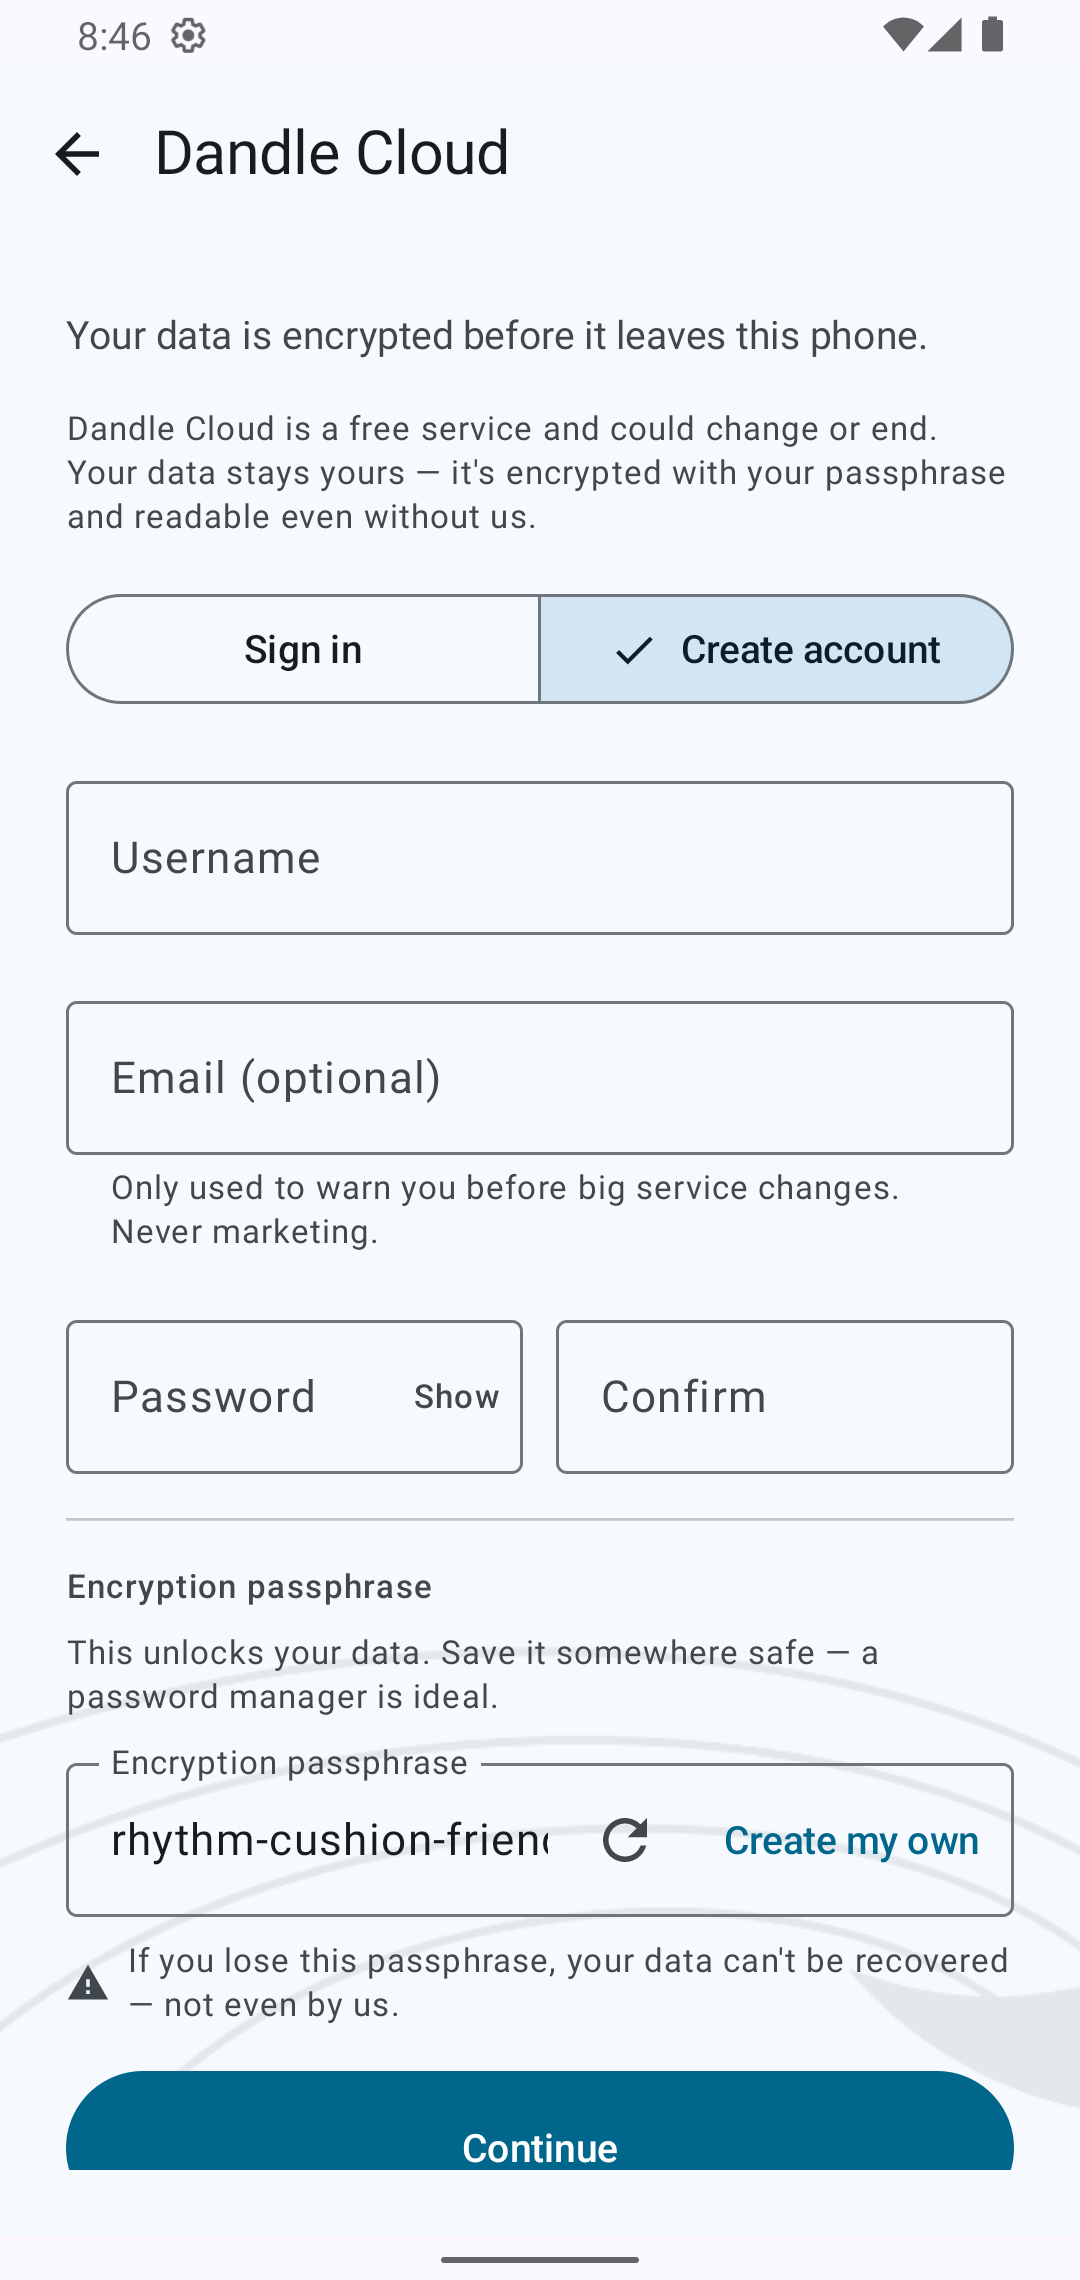
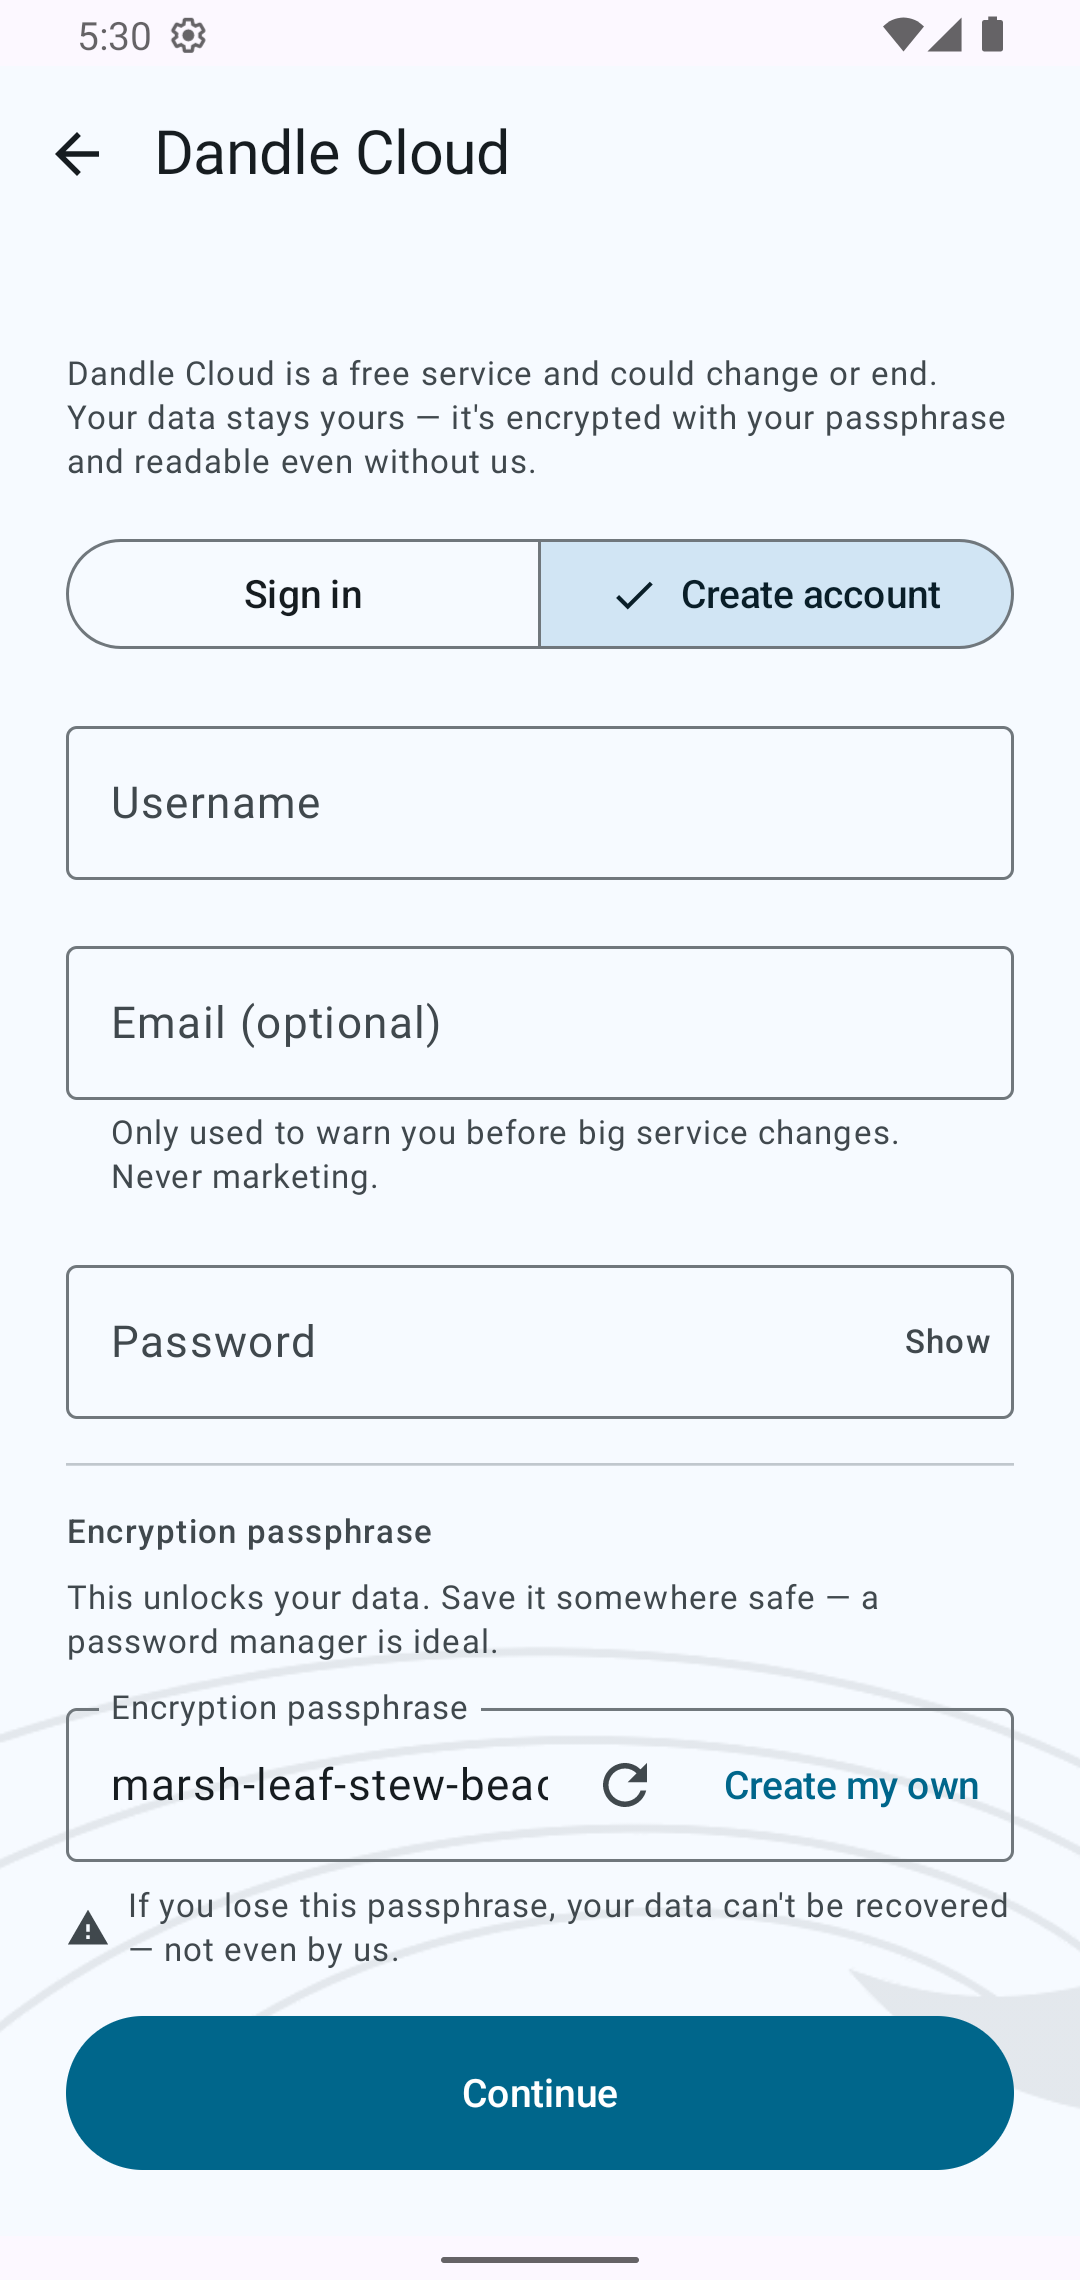
fix(cloud): drop the adjacent confirm-password field (brief 06 amendment)
Research verdict (owner + NIST 800-63B + web.dev/NN/g/2025 UX guides): the
adjacent confirm pair is obsolete — the Show/Hide toggle is the verification,
and managers autofill both fields identically so the pair validates nothing.
Single password field ships; the next-step paste-verify is reserved for the
encryption passphrase, where separate-step confirmation IS the standard
(wallet seed-phrase practice). Screenshots regenerated; 320 unit tests green.

diff --git a/app/app/src/main/java/app/dandle/ui/login/LoginScreen.kt b/app/app/src/main/java/app/dandle/ui/login/LoginScreen.kt
@@ -773,48 +773,24 @@ private fun CloudCreateFields(state: LoginUiState, viewModel: LoginViewModel) {
             .fillMaxWidth()
             .testTag(TestTags.LOGIN_CONTACT_EMAIL),
     )
-    Row(
-        horizontalArrangement = Arrangement.spacedBy(12.dp),
-        modifier = Modifier.fillMaxWidth(),
-    ) {
-        OutlinedTextField(
-            value = state.cloudPassword,
-            onValueChange = viewModel::onCloudPasswordChange,
-            label = { Text("Password") },
-            singleLine = true,
-            visualTransformation =
-                if (state.passwordVisible) VisualTransformation.None
-                else PasswordVisualTransformation(),
-            trailingIcon = {
-                IconButton(onClick = viewModel::onPasswordVisibilityToggle) {
-                    Text(if (state.passwordVisible) "Hide" else "Show", style = MaterialTheme.typography.labelMedium)
-                }
-            },
-            keyboardOptions = KeyboardOptions(keyboardType = KeyboardType.Password, imeAction = ImeAction.Next),
-            modifier = Modifier
-                .weight(1f)
-                .testTag(TestTags.LOGIN_CLOUD_PASSWORD),
-        )
-        OutlinedTextField(
-            value = state.cloudPasswordConfirm,
-            onValueChange = viewModel::onCloudPasswordConfirmChange,
-            // "Confirm", not "Confirm password": the label wraps in the half-width field and
-            // inflates the box taller than its neighbor (owner-reported misalignment).
-            label = { Text("Confirm") },
-            singleLine = true,
-            isError = state.cloudPasswordMismatch,
-            supportingText = if (state.cloudPasswordMismatch) {
-                { Text("Passwords don't match.") }
-            } else {
-                null
-            },
-            visualTransformation = PasswordVisualTransformation(),
-            keyboardOptions = KeyboardOptions(keyboardType = KeyboardType.Password, imeAction = ImeAction.Next),
-            modifier = Modifier
-                .weight(1f)
-                .testTag(TestTags.LOGIN_CLOUD_PASSWORD_CONFIRM),
-        )
-    }
+    OutlinedTextField(
+        value = state.cloudPassword,
+        onValueChange = viewModel::onCloudPasswordChange,
+        label = { Text("Password") },
+        singleLine = true,
+        visualTransformation =
+            if (state.passwordVisible) VisualTransformation.None
+            else PasswordVisualTransformation(),
+        trailingIcon = {
+            IconButton(onClick = viewModel::onPasswordVisibilityToggle) {
+                Text(if (state.passwordVisible) "Hide" else "Show", style = MaterialTheme.typography.labelMedium)
+            }
+        },
+        keyboardOptions = KeyboardOptions(keyboardType = KeyboardType.Password, imeAction = ImeAction.Next),
+        modifier = Modifier
+            .fillMaxWidth()
+            .testTag(TestTags.LOGIN_CLOUD_PASSWORD),
+    )
     // Visually separated section (brief 06 §3): the key that unlocks the data is a different
     // thing from the account password, so it gets its own labeled block.
     HorizontalDivider()
@@ -854,8 +830,7 @@ private fun CloudCreateFields(state: LoginUiState, viewModel: LoginViewModel) {
                 disabledReason = when {
                     state.cloudPassphraseVerify != state.cloudCreatePassphrase -> "Paste the passphrase to confirm"
                     !state.contactEmailValid -> "Fix the email address to continue"
-                    state.cloudPasswordConfirm != state.cloudPassword -> "Make the passwords match"
-                    else -> "Enter a username and password"
+                                        else -> "Enter a username and password"
                 },
                 onClick = viewModel::submit,
             )

diff --git a/app/app/src/main/java/app/dandle/ui/login/LoginViewModel.kt b/app/app/src/main/java/app/dandle/ui/login/LoginViewModel.kt
@@ -82,6 +82,10 @@ data class LoginUiState(
     // -- Cloud sub-flow (brief 04 §B, brief 05 §5, brief 06) --
     val cloudTab: CloudTab = CloudTab.SIGN_IN,
     val cloudUsername: String = "",
+    // Single password field, no adjacent confirm: NIST 800-63B endorses the Show toggle
+    // over re-entry, and the field's Show/Hide IS the verification (brief 06 amendment
+    // 2026-11-01: the adjacent confirm pair is the obsolete pattern; the next-step
+    // paste-verify is reserved for the passphrase, where loss is unrecoverable).
     val cloudPassword: String = "",
     val cloudPassphrase: String = "",
     val cloudPassphraseVisible: Boolean = false,
@@ -89,7 +93,6 @@ data class LoginUiState(
     /** Optional contact address (brief 06 §2): service-change warnings only, never marketing. */
     val contactEmail: String = "",
     /** Account password confirmation (brief 06 §3): must equal [cloudPassword] to submit. */
-    val cloudPasswordConfirm: String = "",
     /** The create tab's passphrase working value (generated or user-chosen). */
     val cloudCreatePassphrase: String = "",
     /** True after "Create my own": field starts empty + obfuscated, regenerator disabled. */
@@ -147,12 +150,6 @@ data class LoginUiState(
     val contactEmailValid: Boolean
         get() = contactEmail.isBlank() || contactEmail.contains("@")
 
-    /** Account-password confirmation (brief 06 §3): live field error once both are typed. */
-    val cloudPasswordMismatch: Boolean
-        get() = cloudTab == CloudTab.CREATE_ACCOUNT &&
-            cloudPasswordConfirm.isNotEmpty() &&
-            cloudPasswordConfirm != cloudPassword
-
     /** VERIFY step live error: non-empty paste that doesn't match the saved passphrase. */
     val cloudVerifyMismatch: Boolean
         get() = cloudPassphraseStep == PassphraseStep.VERIFY &&
@@ -178,7 +175,6 @@ data class LoginUiState(
             else ->
                 cloudPassphraseStep == PassphraseStep.VERIFY &&
                     cloudUsername.isNotBlank() && cloudPassword.isNotBlank() &&
-                    cloudPasswordConfirm == cloudPassword &&
                     contactEmailValid &&
                     cloudCreatePassphrase.isNotBlank() &&
                     cloudPassphraseVerify == cloudCreatePassphrase
@@ -290,7 +286,6 @@ class LoginViewModel(
                             cloudPassphrase = "",
                             cloudPassphraseVisible = false,
                             contactEmail = "",
-                            cloudPasswordConfirm = "",
                             cloudCreatePassphrase = "",
                             cloudCreatePassphraseCustom = false,
                             cloudPassphraseStep = PassphraseStep.GENERATE,
@@ -550,9 +545,6 @@ class LoginViewModel(
         it.copy(cloudPassword = value, banner = null)
     }
 
-    fun onCloudPasswordConfirmChange(value: String) = _uiState.update {
-        it.copy(cloudPasswordConfirm = value, banner = null)
-    }
 
     fun onContactEmailChange(value: String) = _uiState.update {
         it.copy(contactEmail = value, banner = null)

diff --git a/app/app/src/test/java/app/dandle/ui/login/LoginModePickerTest.kt b/app/app/src/test/java/app/dandle/ui/login/LoginModePickerTest.kt
@@ -273,7 +273,6 @@ class LoginModePickerTest {
         assertTrue("a fresh generated passphrase passes the Continue gate", vm.uiState.value.canContinuePassphrase)
         vm.onCloudUsernameChange("nick")
         vm.onCloudPasswordChange("pw")
-        vm.onCloudPasswordConfirmChange("pw")
         if (email.isNotEmpty()) vm.onContactEmailChange(email)
         vm.onCloudPassphraseContinue()
         assertEquals(PassphraseStep.VERIFY, vm.uiState.value.cloudPassphraseStep)
@@ -300,7 +299,6 @@ class LoginModePickerTest {
         viewModel.onCloudPassphraseBack() // even with every field filled, GENERATE cannot submit
         viewModel.onCloudUsernameChange("nick")
         viewModel.onCloudPasswordChange("pw")
-        viewModel.onCloudPasswordConfirmChange("pw")
         assertEquals(PassphraseStep.GENERATE, viewModel.uiState.value.cloudPassphraseStep)
         assertFalse("the two-step flow must gate the network behind VERIFY", viewModel.uiState.value.canSubmitCloud)
 
@@ -420,17 +418,13 @@ class LoginModePickerTest {
     }
 
     @Test
-    fun `password confirmation mismatch gates the create flow`() {
+    fun `single password field with no adjacent confirm — verification is the Show toggle`() {
         driveCreateToVerify()
-        viewModel.onCloudPasswordConfirmChange("different")
         viewModel.onCloudPassphraseVerifyChange(viewModel.uiState.value.cloudCreatePassphrase)
-
-        assertTrue("confirm-vs-password is a live field error", viewModel.uiState.value.cloudPasswordMismatch)
-        assertFalse("mismatched passwords gate the account creation", viewModel.uiState.value.canSubmitCloud)
-
-        viewModel.onCloudPasswordConfirmChange("pw")
-        assertFalse(viewModel.uiState.value.cloudPasswordMismatch)
-        assertTrue(viewModel.uiState.value.canSubmitCloud)
+        assertTrue(
+            "one password field verifies via Show toggle; the paste-verify is reserved for the passphrase",
+            viewModel.uiState.value.canSubmitCloud,
+        )
     }
 
     @Test

diff --git a/app/app/src/main/java/app/dandle/ui/TestTags.kt b/app/app/src/main/java/app/dandle/ui/TestTags.kt
@@ -41,7 +41,6 @@ object TestTags {
     const val LOGIN_CONTACT_EMAIL = "login/contact_email"
     const val LOGIN_CLOUD_PASSWORD = "login/cloud_password"
     /** Brief 06 §3: account-password confirmation, side-by-side with the password field. */
-    const val LOGIN_CLOUD_PASSWORD_CONFIRM = "login/cloud_password_confirm"
     const val LOGIN_CLOUD_PASSPHRASE = "login/cloud_passphrase"
     // Brief 06 §4: the create-tab passphrase section + generate/verify state machine.
     const val LOGIN_CLOUD_PASSPHRASE_GENERATE = "login/cloud_passphrase_generate"
